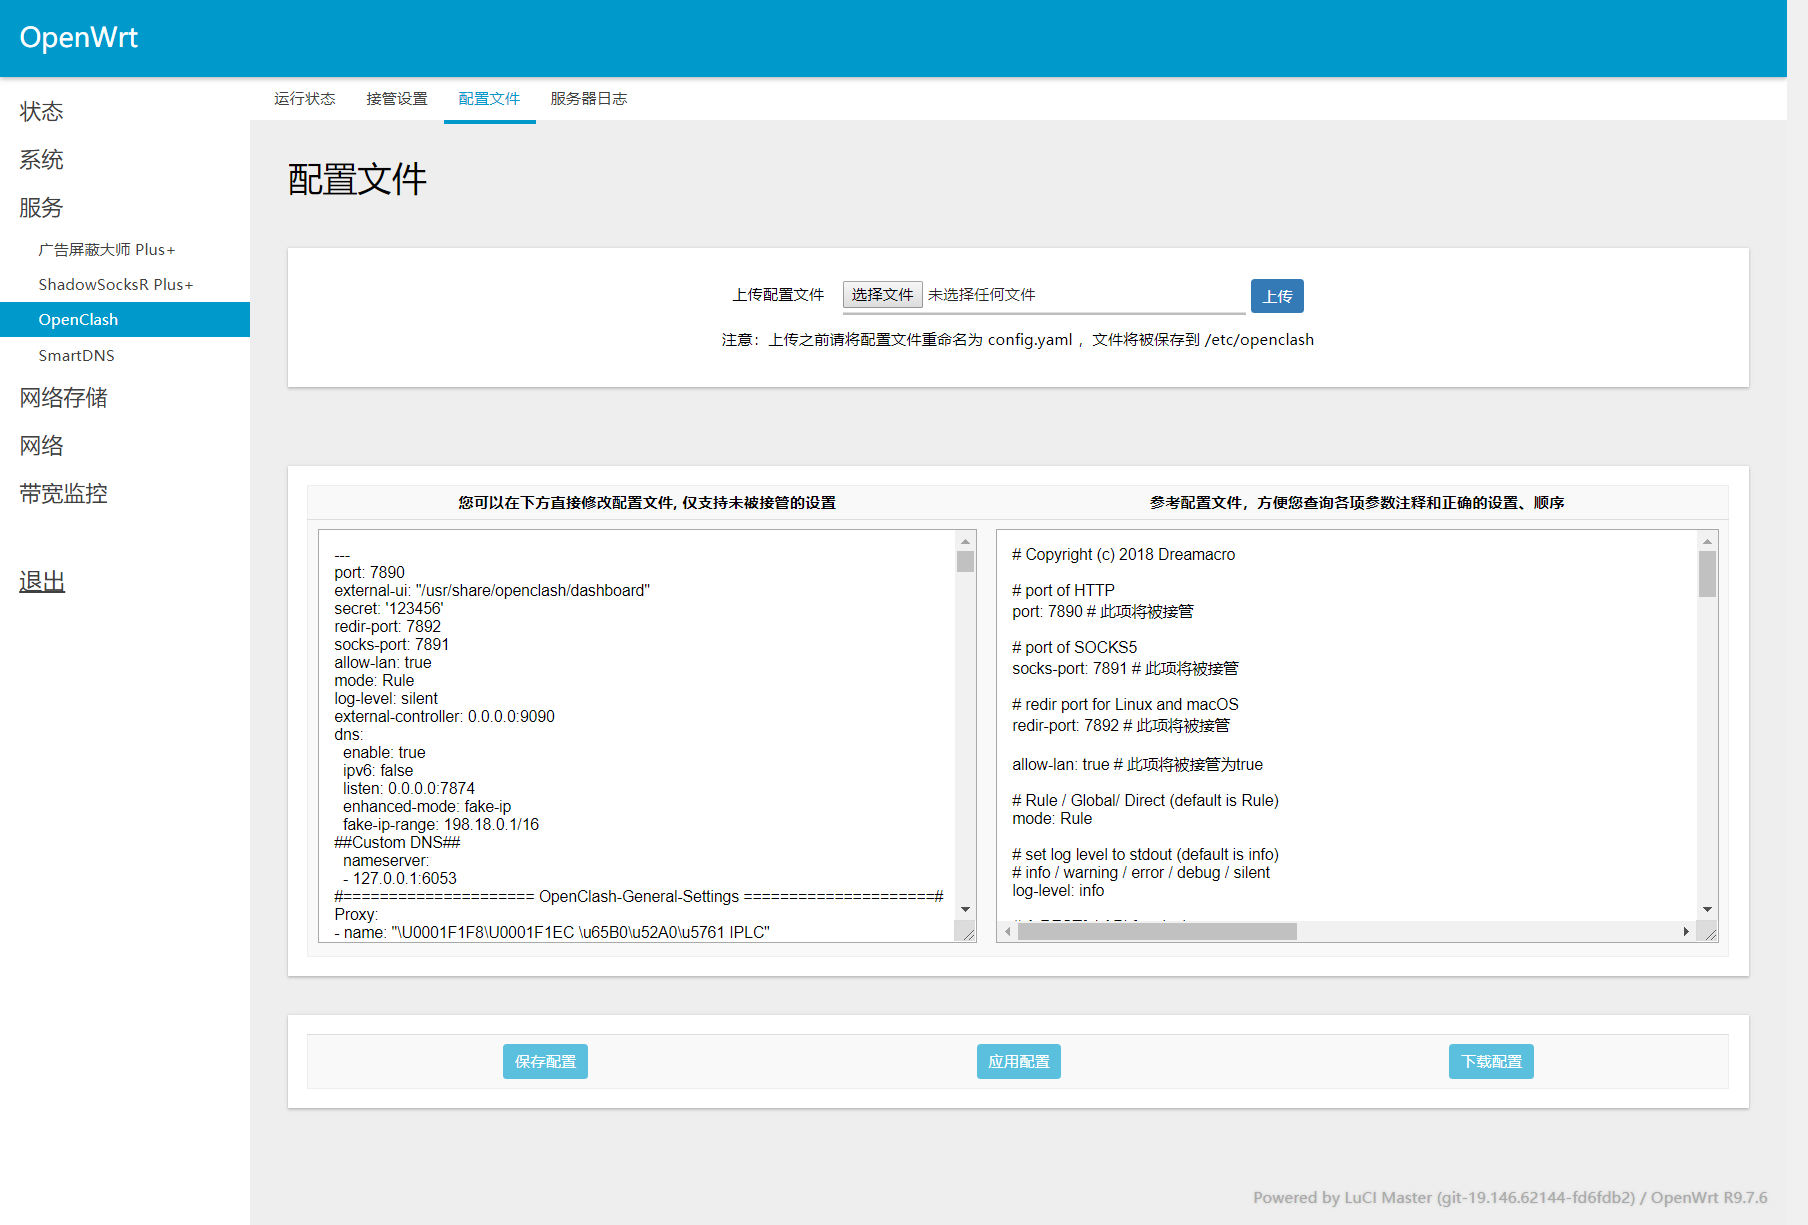
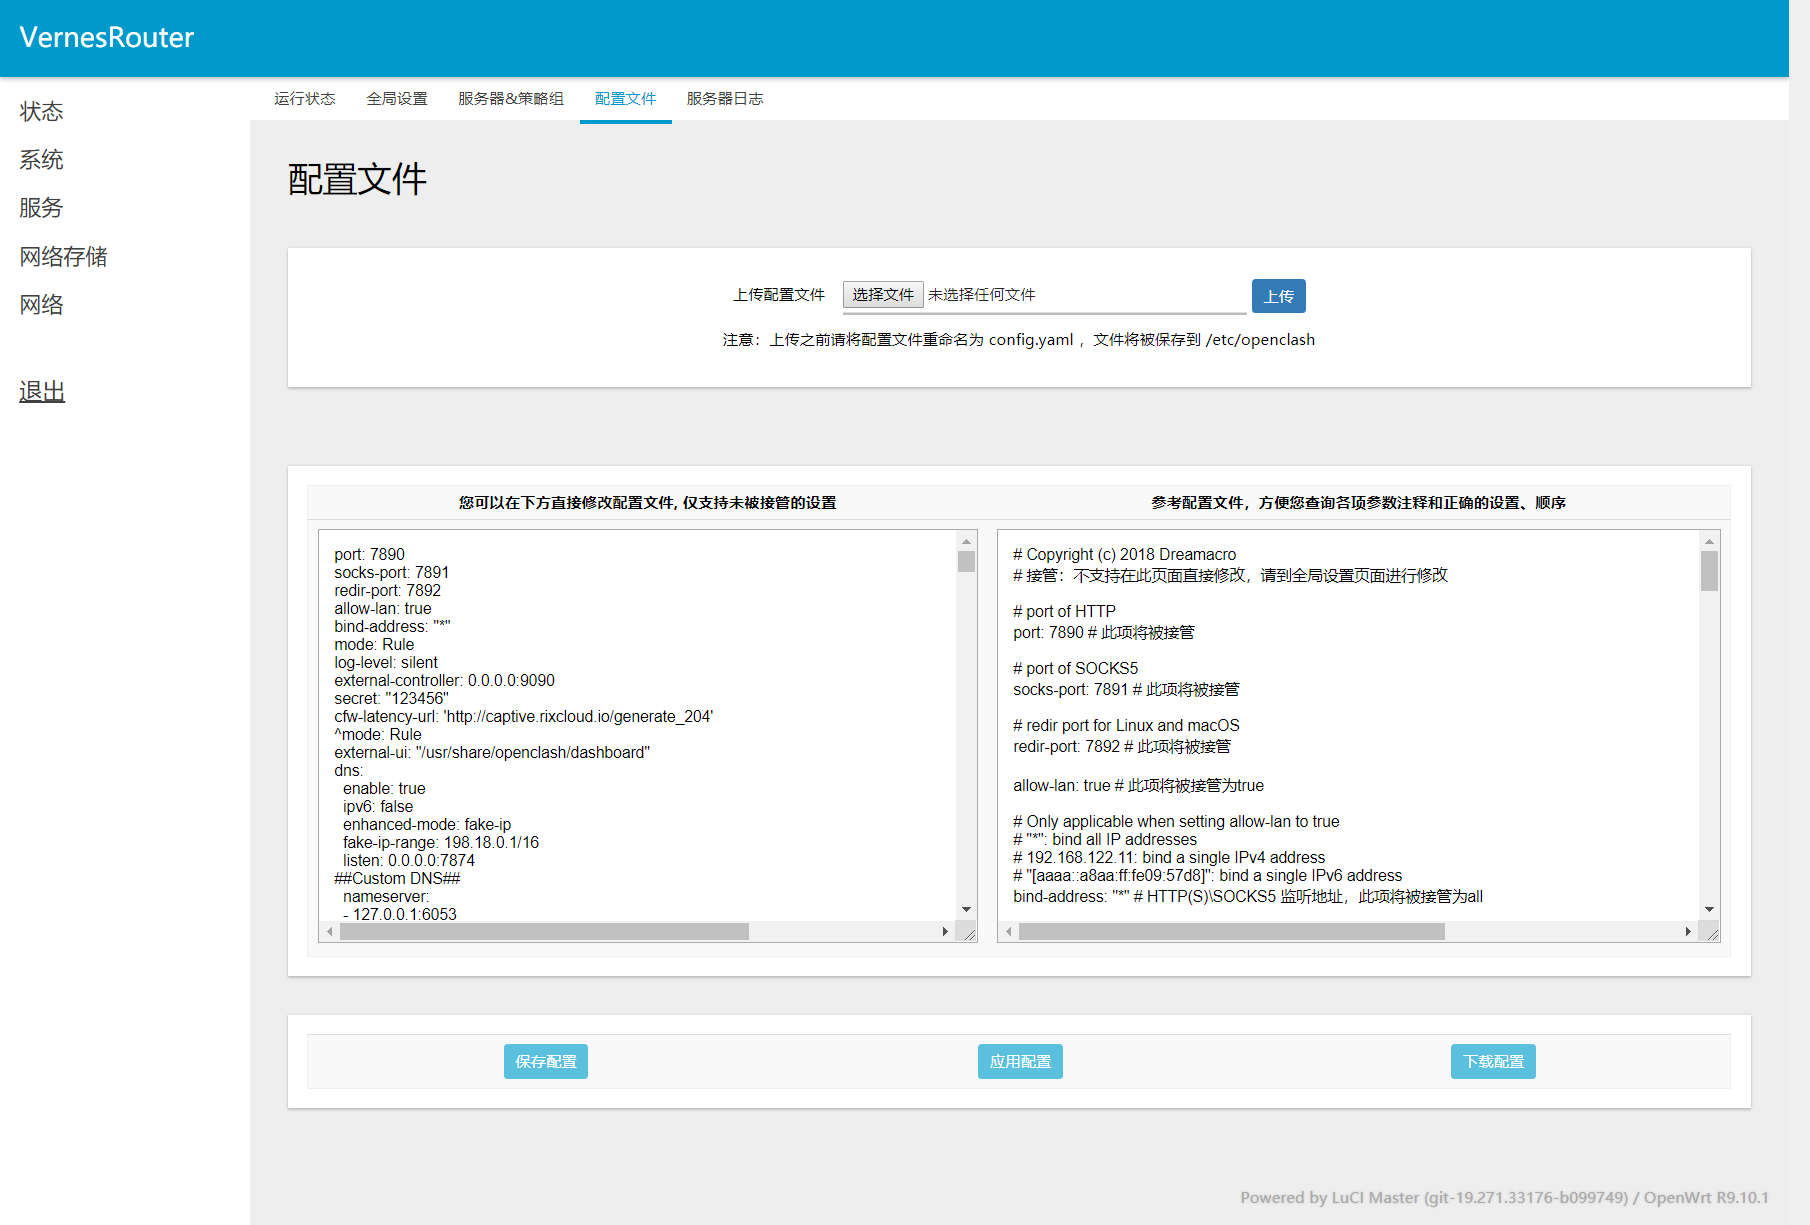
v0.35.0-beta

diff --git a/luci-app-openclash/files/usr/lib/lua/luci/view/openclash/server_list.htm b/luci-app-openclash/files/usr/lib/lua/luci/view/openclash/server_list.htm
@@ -1,0 +1,32 @@
+<%#
+ Copyright 2018-2019 Lienol <lawlienol@gmail.com>
+ Licensed to the public under the Apache License 2.0.
+-%>
+
+<%
+local dsp = require "luci.dispatcher"
+-%>
+
+<script type="text/javascript">
+	//<![CDATA[
+	var pings = document.getElementsByClassName('pingtime');
+	for(var i = 0; i < pings.length; i++) {
+		XHR.get('<%=dsp.build_url("admin", "services", "openclash", "ping")%>', {
+				index: i,
+				domain: pings[i].getAttribute("hint")
+			},
+			function(x, result) {
+				pings[result.index].innerHTML = (result.ping ? "<b><font color=green>"+result.ping+"</font></b> ms" : "<b><font color=red><%: 检测失败 %></font></b>");
+			}
+		);
+		XHR.poll(10,'<%=dsp.build_url("admin", "services", "openclash", "ping")%>',{
+				index: i,
+				domain: pings[i].getAttribute("hint")
+			},
+			function(x, result) {
+				pings[result.index].innerHTML = (result.ping ? "<b><font color=green>"+result.ping+"</font></b> ms" : "<b><font color=red><%: 检测失败 %></font></b>");
+			}
+		);
+	}
+	//]]>
+</script>

diff --git a/luci-app-openclash/files/usr/lib/lua/luci/view/openclash/status.htm b/luci-app-openclash/files/usr/lib/lua/luci/view/openclash/status.htm
@@ -114,7 +114,7 @@
     
     function telegrampage()
     {
-        url6='https://telegram.clash.dev';
+        url6='https://t.me/joinchat/D4mVX0n-n5mOK6YO_W3_Og';
         window.open(url6);
     }
     

diff --git a/luci-app-openclash/files/usr/lib/lua/luci/view/openclash/ping.htm b/luci-app-openclash/files/usr/lib/lua/luci/view/openclash/ping.htm
@@ -1,0 +1,3 @@
+<%+cbi/valueheader%>
+<span class="pingtime" hint="<%=self:cfgvalue(section)%>">-- ms</span>
+<%+cbi/valuefooter%>

diff --git a/README.md b/README.md
@@ -5,14 +5,14 @@
 </h1>
 
   <p align="center">
-	<a target="_blank" href="https://github.com/Dreamacro/clash/releases/tag/v0.15.0">
-    <img src="https://img.shields.io/badge/Clash-v0.15.0-blue.svg">
+	<a target="_blank" href="https://github.com/Dreamacro/clash/releases/tag/v0.16.0">
+    <img src="https://img.shields.io/badge/Clash-v0.16.0-blue.svg">
   </a>
-  <a target="_blank" href="https://github.com/vernesong/OpenClash/tree/v0.34.7-beta">
-    <img src="https://img.shields.io/badge/source code-v0.34.7--beta-green.svg">
+  <a target="_blank" href="https://github.com/vernesong/OpenClash/tree/v0.35.0-beta">
+    <img src="https://img.shields.io/badge/source code-v0.35.0--beta-green.svg">
   </a>
-  <a target="_blank" href="https://github.com/vernesong/OpenClash/releases/tag/v0.34.7-beta">
-    <img src="https://img.shields.io/badge/New Release-v0.34.7--beta-orange.svg">
+  <a target="_blank" href="https://github.com/vernesong/OpenClash/releases/tag/v0.35.0-beta">
+    <img src="https://img.shields.io/badge/New Release-v0.35.0--beta-orange.svg">
   </a>
   </p>
   
@@ -21,7 +21,7 @@
 本插件是一个可运行在 OpenWrt 上的<a href="https://github.com/Dreamacro/clash" target="_blank"> Clash </a>客户端
 </p>
 <p align="center">
-兼容 Shadowsocks、Vmess 等协议，根据灵活的规则配置实现策略代理
+兼容 Shadowsocks、Vmess、Snell 等协议，根据灵活的规则配置实现策略代理
 </p>
 <p align="center">
 - 感谢<a href="https://github.com/frainzy1477" target="_blank"> frainzy1477 </a>，本插件基于<a href="https://github.com/frainzy1477/luci-app-clash" target="_blank"> Luci For Clash </a>进行二次开发 -
@@ -125,9 +125,14 @@ make package/luci-app-openclash/luci-app-openclash/compile V=99
     <img src="https://github.com/vernesong/OpenClash/raw/master/img/state.png">
 </p>
 
-* 接管设置
+* 全局设置
 <p align="center">
     <img src="https://github.com/vernesong/OpenClash/raw/master/img/settings.png">
+</p>
+
+* 服务器&策略组
+<p align="center">
+    <img src="https://github.com/vernesong/OpenClash/raw/master/img/servers.png">
 </p>
 
 * 配置文件
